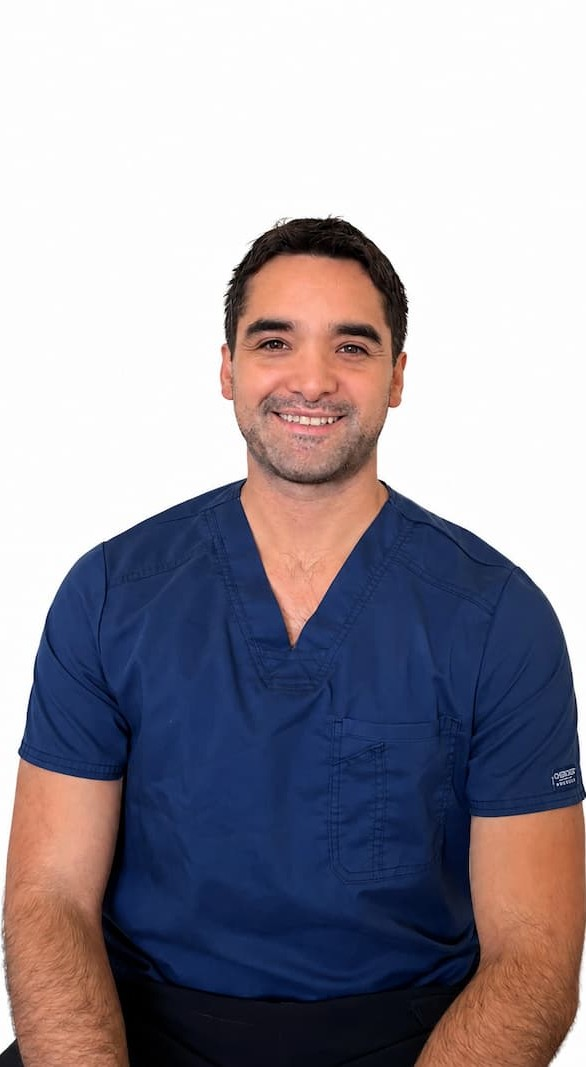
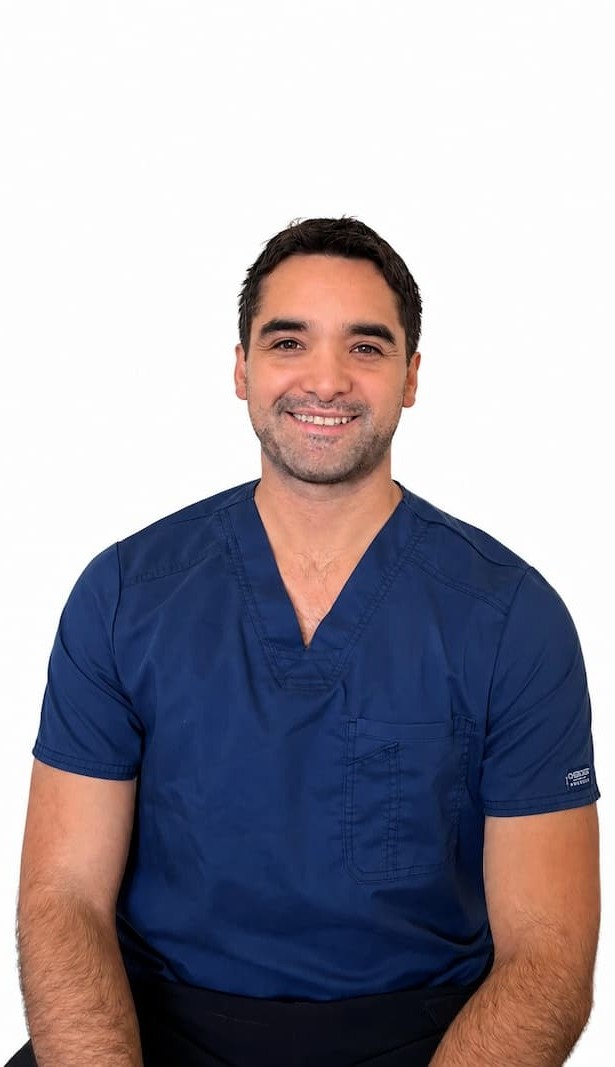
Finalize design of team cards

diff --git a/src/pages/Equipo.tsx b/src/pages/Equipo.tsx
@@ -1,4 +1,5 @@
-import { Linkedin } from 'lucide-react';
+// Uncomment when the team members' LinkedIn profile URLs are available.
+// import { Linkedin } from 'lucide-react';
 import { PageHero } from '../components/PageHero';
 import { useReveal } from '../hooks/useReveal';
 import { TEAM } from '../data/content';
@@ -15,11 +16,6 @@ export default function Equipo() {
       <section className="pb-16 md:pb-24">
         <div className="container-page">
           <div>
-            <div className="mb-8 flex items-center gap-3">
-              <span className="eyebrow">
-                Equipo multidisciplinario
-              </span>
-            </div>
             <div className="grid gap-6 sm:grid-cols-2 lg:grid-cols-3 xl:grid-cols-4">
               {TEAM.map((m) => (
                 <MemberCard key={m.name} member={m} />
@@ -39,18 +35,18 @@ function MemberCard({ member }: { member: Member }) {
   return (
     <article
       ref={ref}
-      className={`reveal ${visible ? 'is-visible' : ''} group flex flex-col overflow-hidden rounded-3xl bg-white shadow-soft ring-1 ring-sand-200 ${member.featured ? 'sm:col-span-2 sm:grid sm:grid-cols-2' : ''}`}
+      className={`reveal ${visible ? 'is-visible' : ''} group flex flex-col overflow-hidden rounded-3xl bg-white shadow-soft ring-1 ring-sand-200 transition-transform duration-300 lg:hover:-translate-y-1 ${member.featured ? 'sm:col-span-2 sm:grid sm:grid-cols-2' : ''}`}
     >
-      <div className={`bg-black/20 p-4 pb-0 transition-colors duration-300 group-hover:bg-transparent ${member.featured ? 'sm:flex sm:items-center sm:p-6' : ''}`}>
-        <div className={`relative w-full overflow-hidden rounded-2xl ${member.featured ? 'aspect-square sm:aspect-auto' : 'aspect-square'}`}>
+      <div className={member.featured ? 'sm:flex sm:items-center' : ''}>
+        <div className={`relative w-full overflow-hidden ${member.featured ? 'aspect-square sm:aspect-auto' : 'aspect-square'}`}>
           <picture className={member.featured ? 'block h-full w-full sm:h-auto' : 'block h-full w-full'}>
             {member.mobileImage && <source media="(min-width: 640px)" srcSet={member.image} />}
             <img
               src={member.mobileImage ?? member.image}
               alt={member.imageAlt}
-              className={member.featured
-                ? 'h-full w-full object-cover sm:block sm:h-auto'
-                : 'h-full w-full object-cover'}
+            className={member.featured
+              ? 'h-full w-full object-cover sm:block sm:h-auto'
+              : 'h-full w-full object-cover transition-transform duration-500 lg:group-hover:scale-105'}
               loading="lazy"
             />
           </picture>
@@ -68,6 +64,7 @@ function MemberCard({ member }: { member: Member }) {
         <div className="mt-3 flex-1 text-sm leading-relaxed text-ink-600 [&_a]:font-medium [&_a]:text-sage-700 [&_a]:underline [&_li]:pl-1 [&_strong]:font-semibold [&_strong]:text-ink-800 [&_ul]:mt-3 [&_ul]:list-disc [&_ul]:space-y-1 [&_ul]:pl-5">
           {member.bio}
         </div>
+        {/* Uncomment this section when the team members' LinkedIn profile URLs are available.
         <div className="mt-4">
           <a
             href="#"
@@ -77,6 +74,7 @@ function MemberCard({ member }: { member: Member }) {
             <Linkedin className="h-4 w-4" />
           </a>
         </div>
+        */}
       </div>
     </article>
   );